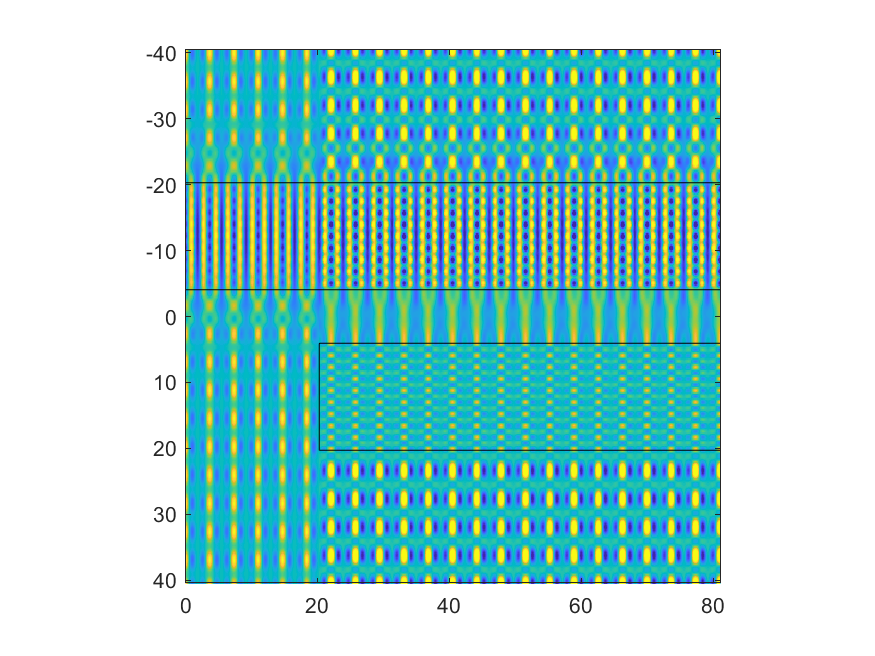
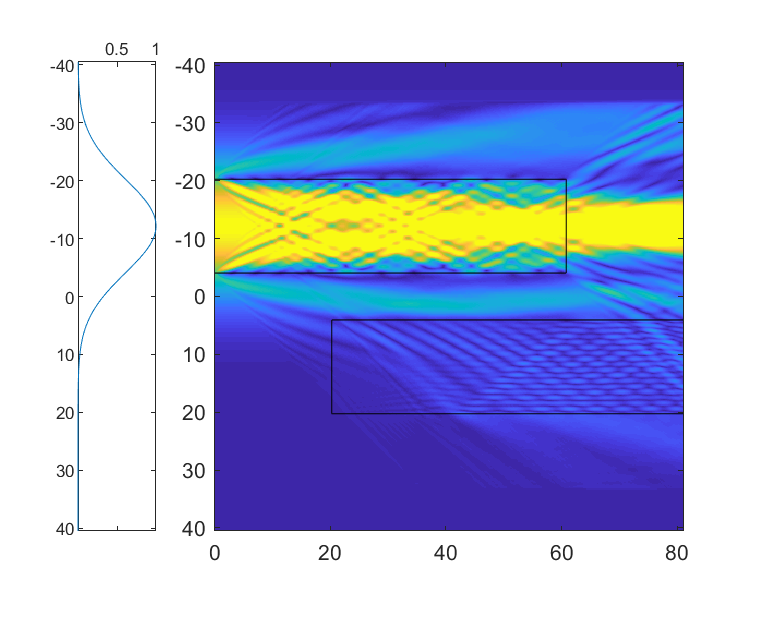
fix a bug related to update

diff --git a/BPM/fdmbpm.m b/BPM/fdmbpm.m
@@ -26,7 +26,7 @@ x0 = -1e-5;
 x1 = 1e-5;
 
 wg_1_z0 = 0.0;
-wg_1_z1 = 2e-5;
+wg_1_z1 = 1.5e-5;
 wg_1_x0 = -5e-6;
 wg_1_x1 = -1e-6;
 
@@ -68,7 +68,7 @@ res_dev = dev_min_feature_len / grid_per_devlen;
 res = min(res_wave, res_dev);
 
 Nx = ceil((x1 - x0) / res);
-Nz = ceil((z1 - z0) / (0.1 *res));
+Nz = ceil((z1 - z0) / res);
 
 res_z = (z1 - z0) / Nz;
 res_x = (x1 - x0) / Nx;
@@ -115,6 +115,7 @@ for i = (Nx - NPML_x+1) : Nx
     sx(:, i) = (1 + a_max * (nx / NPML_x)^PML_power)...
         * (1 + 1j * eta0 * (sin(pi * nx / 2 / NPML_x))^2);
 end
+
 Eps_yy = Eps_yy .* sx;
 Mu_xx = Mu_xx ./ sx;
 Mu_zz = Mu_zz .* sx;
@@ -159,7 +160,7 @@ for i = 1 : Nz-1
     inverse_mu_zz0 = diag(Mu_zz(i,:).^(-1));
     
     A0 = mu_xx0 * Dx_h * inverse_mu_zz0 * Dx_e + mu_xx0 * eps_yy0...
-        - n_eff^2 * ones(Nx, Nx);
+        - n_eff^2 * eye(Nx, Nx);
     
     mu_xx1 = diag(Mu_xx(i+1, :));
     mu_zz1 = diag(Mu_zz(i+1, :));
@@ -168,10 +169,10 @@ for i = 1 : Nz-1
     inverse_mu_zz1 = diag(Mu_zz(i+1,:).^(-1));
     
     A1 = mu_xx1 * Dx_h * inverse_mu_zz1 * Dx_e + mu_xx1 * eps_yy1...
-        - n_eff^2 * ones(Nx, Nx);  
+        - n_eff^2 * eye(Nx, Nx);  
     
-    left_hand_mat = ones(Nx, Nx) - 1j * res_z / 4.0 / n_eff * A1;
-    rhs = (ones(Nx, Nx) + 1j * res_z / 4.0 / n_eff * A0) * (Ey(i, :)');
+    left_hand_mat = eye(Nx, Nx) - 1j * res_z / 4.0 / n_eff * A1;
+    rhs = (eye(Nx, Nx) + 1j * res_z / 4.0 / n_eff * A0) * (Ey(i, :)');
     
     Ey(i+1, :) = (left_hand_mat \ rhs)';
     
@@ -180,7 +181,7 @@ for i = 1 : Nz-1
     [Z, X] = meshgrid(z_array, x_array);
     phase = exp(1i * n_eff * Z);
     
-    if (mod(i, 20) == 0)
+    if (mod(i, 20) == 0 || i == Nz - 1)
         clear gca;
         
         h(1) = subplot(1, 2, 1);
